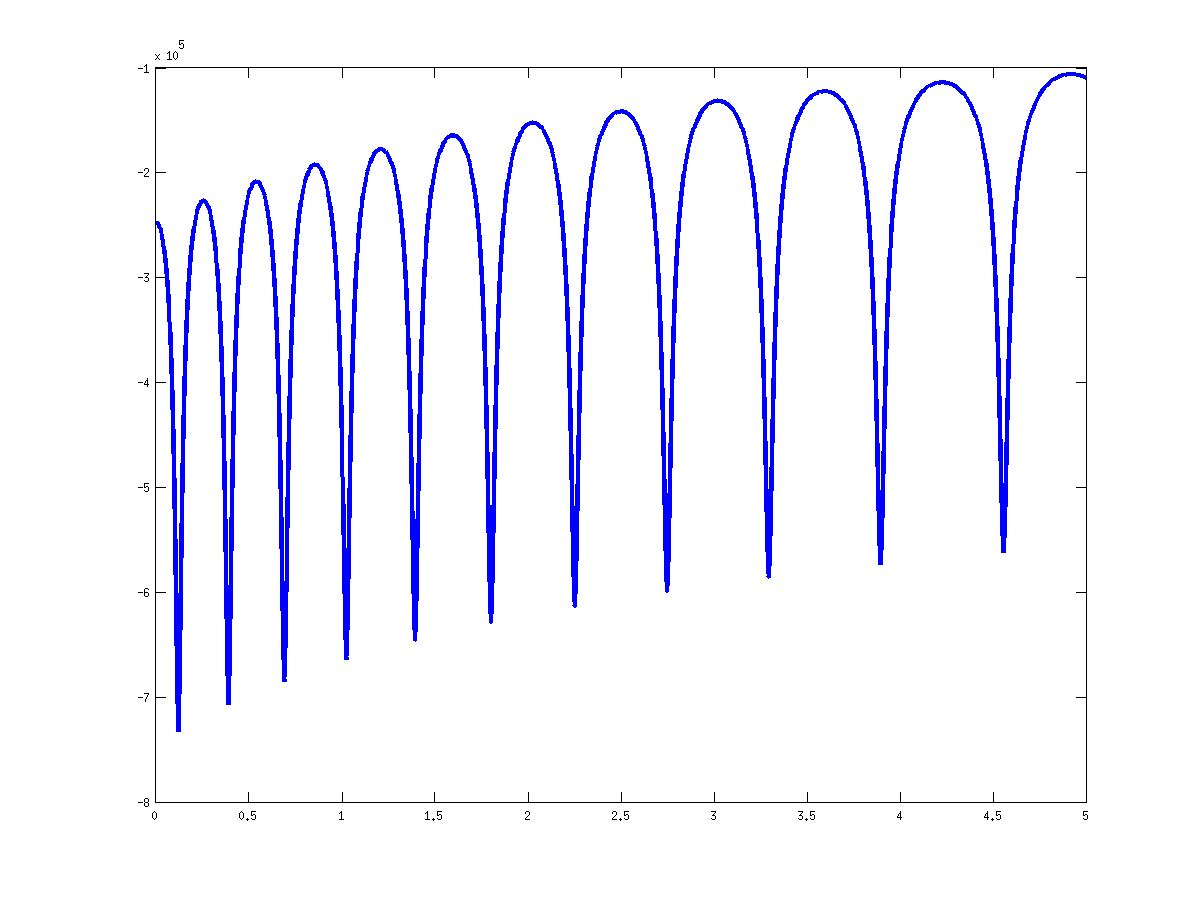
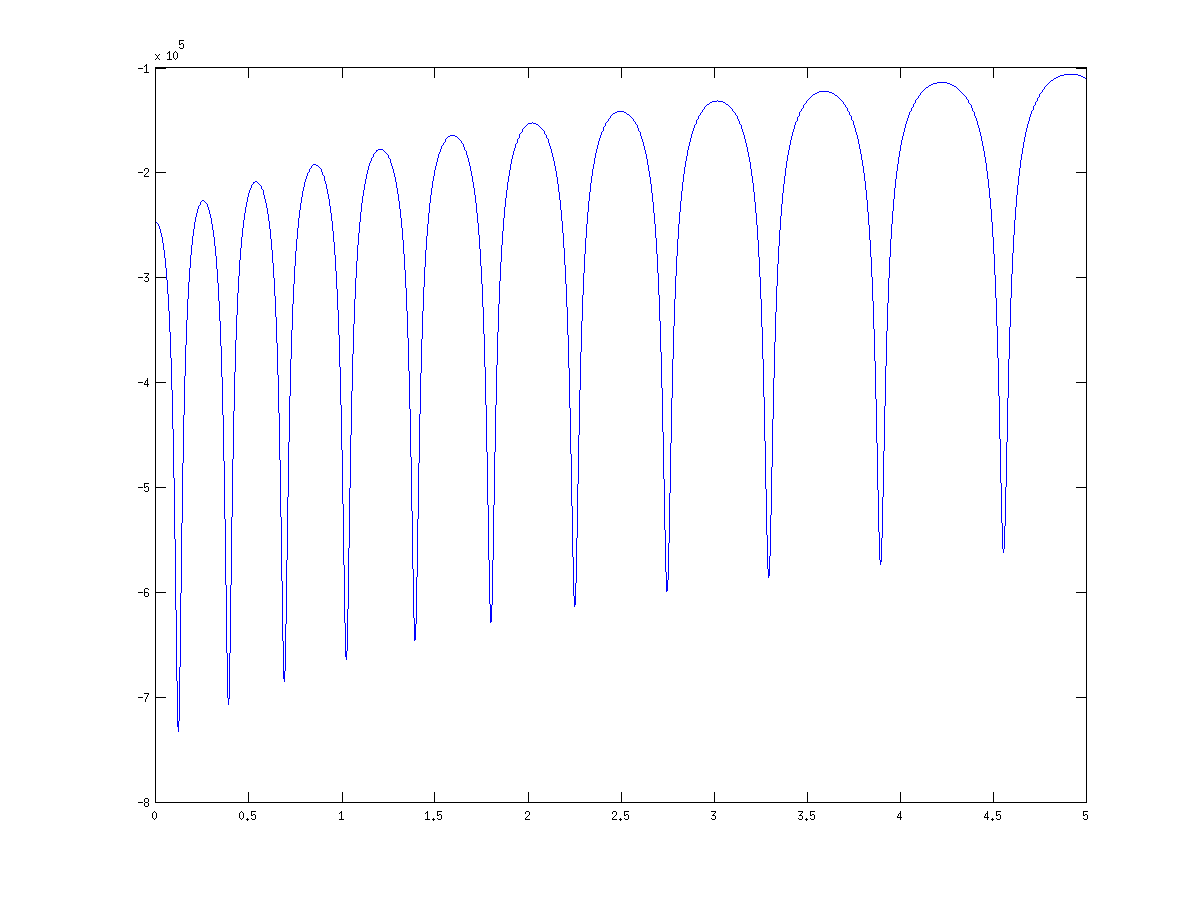
on va devoir regler des conflits

diff --git a/devoir4/Q2/q2.tex b/devoir4/Q2/q2.tex
@@ -77,8 +77,12 @@ Intéressons nous maintenant aux résultats obtenus.
 
 	Comme l'illustre le graphe \ref{fig:q2_explicite_q}, dans le cas de la méthode d'euler explicite, les trajectoires tendent à s'éloigner au fil du temps. Ce qui est assez cohérent avec le graphe de la vitesse \ref{fig:q2_explicite_p}. En effet, sur ce dernier on constate que la vitesse augmente peu à peu, on saute de solution en solution, et donc forcément les corps peuvent parcourir une plus grande distance dans le même intervalle de temps, ce qui explique le graphe \ref{fig:q2_explicite_q}. L'énergie quant à elle augmente légèrement de manière globale  passant de $-2$ à $-1 \cdot 10^{-5}$ , mais par contre localement elle chute jusqu'à des $-7 \cdot 10{-5}$. 
 	
-	Ensuite pour Euler symplectique, on constate que les deux types renvoient les mêmes graphes tant pour p (\ref{fig:q2_symplectique1_p}, \ref{fig:q2_symplectique2_p}) que pour q (\ref{fig:q2_symplectique1_q}, \ref{fig:q2_symplectique2_q})  et $\Ha$ (\ref{fig:q2_symplectique1_H}, \ref{fig:q2_symplectique2_H}). Ce résultat, qui peut sembler surprenant de prime abord, est en fait cohérent. En effet, si on regarde de plus près on constate que dans les graphes de vitesse, cette dernière reste la même "à chaque tour", c'est à dire qu'on n'a pas d'erreur qui nous entraine vers une autre solution. Il en va de même pour la position qui, même si elle "monte" peu à peu à cause de l'interaction des deux corps, n'est en soit que la répétion d'un même mouvement. On n'a donc pas de risque de s'en aller vers l'une ou l'autre solution en fonction des variables sur lesquelles on applique euler explicite ou implicite.    
+	
+	Ensuite pour Euler symplectique, on remarque tout d'abord que l'on reste sur la même solution au fil des itérations pour la vitesse (graphes \ref{fig:q2_symplectique1_p} et \ref{fig:q2_symplectique2_p}) et donc les graphes \ref{fig:q2_symplectique1_q} et \ref{fig:q2_symplectique2_q} de la position restent également cohérents. Le mouvement peut être interpeté physiquement. Il y a deux corps partant avec des vitesses opposées de points différents. Ils partent donc dans des directions différentes, avec un mouvement elliptique du à leur attraction réciproque. Un des corps est plus lourd que l'autre, il entraine donc le plus léger.   
+	
+	Toujours à propos d'Euler symplectique, on constate que les deux types de symplectique renvoient les mêmes graphes tant pour p (\ref{fig:q2_symplectique1_p}, \ref{fig:q2_symplectique2_p}) que pour q (\ref{fig:q2_symplectique1_q}, \ref{fig:q2_symplectique2_q})  et $\Ha$ (\ref{fig:q2_symplectique1_H}, \ref{fig:q2_symplectique2_H}). Ce résultat, qui peut sembler surprenant de prime abord, est en fait cohérent. En effet, si on regarde de plus près on constate que dans les graphes de vitesse, cette dernière reste la même "à chaque tour", c'est à dire qu'on n'a pas d'erreur qui nous entraine vers une autre solution. Il en va de même pour la position qui, même si elle "monte" peu à peu à cause de l'interaction des deux corps, n'est en soit que la répétion d'un même mouvement. On n'a donc pas de risque de s'en aller vers l'une ou l'autre solution en fonction des variables sur lesquelles on applique euler explicite ou implicite.    
 
+	
 
 
 \begin{figure}

diff --git a/devoir4/matlab/Q.m b/devoir4/matlab/Q.m
@@ -20,7 +20,7 @@ else
     n = 50000;
     h = 1e-4;
 
-    m_1 = 1e4;%3.343e4;
+    m_1 = 3.343e4;
     m_2 = 1e4;
     G = 2.96e-4;
     f_1 = @f_1_q2;
